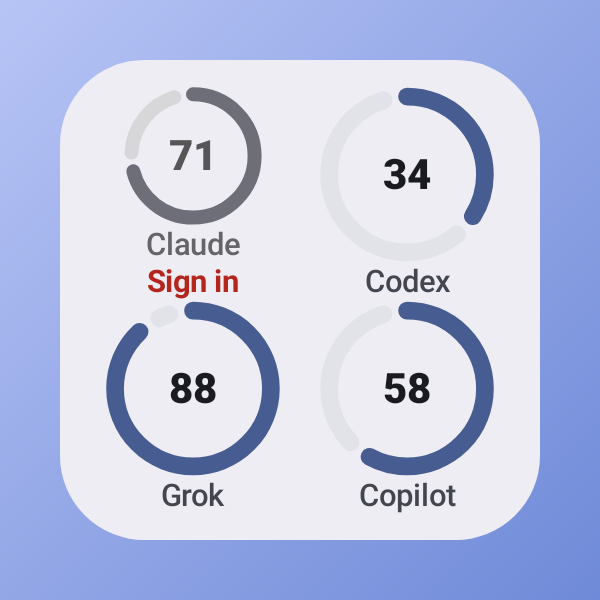
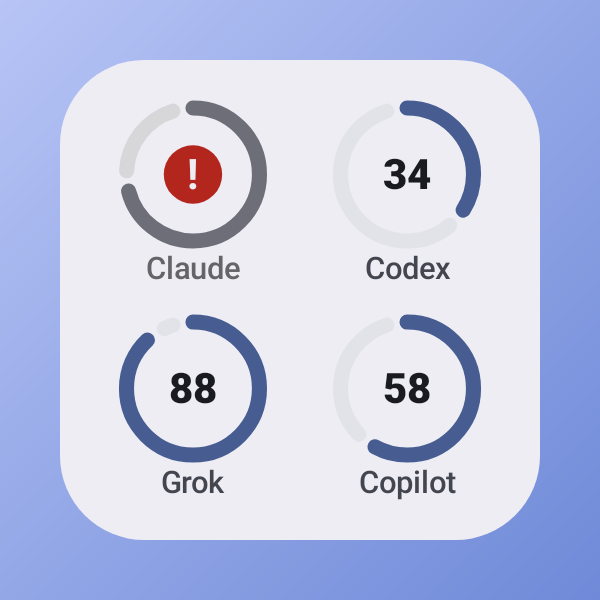
Keep only the account name under widget rings
The ring grid now leaves a small gap between its rows, inside each cell's
tap area. A ring whose sign-in expired no longer adds a "Sign in" line
under it: the ring grid and the lock screen show a red "!" badge in the
centre of the ring instead, in place of the number or the logo, and the
line under the ring is the account name again. Screen readers still hear
that the sign-in expired. The ring grid and lock screen pictures are
recorded again.

Changed region(s): [[0.15, 0.15, 0.48, 0.84], [0.6, 0.42, 0.84, 0.87], [0.66, 0.15, 0.84, 0.39]]

diff --git a/widget/src/main/kotlin/dev/sebastiano/headroom/widget/render/Drawing.kt b/widget/src/main/kotlin/dev/sebastiano/headroom/widget/render/Drawing.kt
@@ -62,11 +62,11 @@ internal fun RemoteDrawScope.drawGaugeRing(
 }
 
 /**
- * The reset counter: [count] in a small disc, ringed by the card colour so it stands apart from
- * what it sits on. It is centred on ([x], [y]).
+ * A small badge: [text] in a disc, ringed by the card colour so it stands apart from what it sits
+ * on. It is centred on ([x], [y]). The reset counter and the "!" of a stale ring use it.
  */
 internal fun RemoteDrawScope.drawCounter(
-    count: Int,
+    text: String,
     x: RemoteFloat,
     y: RemoteFloat,
     style: CounterStyle,
@@ -75,12 +75,12 @@ internal fun RemoteDrawScope.drawCounter(
     drawCircle(fillPaint(style.halo.rc), (style.radiusPx + style.haloPx).rf, centre)
     drawCircle(fillPaint(style.fill.rc), style.radiusPx.rf, centre)
     with(RestrictedRemoteApis) {
-        drawCentredText(count.toString().rs, x, y, textPaint(style.text, style.textPx, bold = true))
+        drawCentredText(text.rs, x, y, textPaint(style.text, style.textPx, bold = true))
     }
 }
 
 /**
- * Colours and sizes of a [drawCounter] counter. The sizes are pixels, fixed at capture, because
+ * Colours and sizes of a [drawCounter] badge. The sizes are pixels, fixed at capture, because
  * canvas text needs its size then.
  */
 internal data class CounterStyle(
@@ -91,6 +91,11 @@ internal data class CounterStyle(
     val textPx: Float,
     val haloPx: Float,
 )
+
+/** Draws the "!" badge of a ring whose sign-in expired, in the centre of the ring. */
+internal fun RemoteDrawScope.drawSignInBadge(style: CounterStyle) {
+    drawCounter(SIGN_IN_MARK, width / 2f.rf, height / 2f.rf, style)
+}
 
 /**
  * Draws the reset counter off the bottom-right of a ring of [geometry], just past its outer edge,
@@ -104,7 +109,7 @@ internal fun RemoteDrawScope.drawRingCounter(
     val outerEdge = remoteMin(width, height) * (geometry.radius + geometry.stroke / 2f).rf
     val distance = outerEdge + (style.radiusPx + style.haloPx).rf
     val offset = distance * DIAGONAL.rf
-    drawCounter(count, width / 2f.rf + offset, height / 2f.rf + offset, style)
+    drawCounter(count.toString(), width / 2f.rf + offset, height / 2f.rf + offset, style)
 }
 
 /**
@@ -257,6 +262,7 @@ private fun fillPaint(color: RemoteColor) = RemotePaint {
 }
 
 private const val FULL_TURN = 360f
+private const val SIGN_IN_MARK = "!"
 /** cos 45°: how far along each axis the bottom-right diagonal crosses a circle, per radius. */
 private const val DIAGONAL = 0.7071f
 private const val TOP = -90f

diff --git a/widget/src/main/kotlin/dev/sebastiano/headroom/widget/render/RingWidgets.kt b/widget/src/main/kotlin/dev/sebastiano/headroom/widget/render/RingWidgets.kt
@@ -243,8 +243,11 @@ private fun SmallRing(
     val colors = render.colorsFor(gauge)
     val counter =
         render.counterStyle(gauge, render.pxValue(SMALL_COUNTER), render.textPx(SMALL_COUNTER_TEXT))
+    val signIn =
+        render.signInBadgeStyle(render.pxValue(SIGN_IN_BADGE), render.textPx(SIGN_IN_BADGE_TEXT))
+    // Inside the cell's tap area, so the gap between rows still opens the account.
     RemoteColumn(
-        modifier = modifier,
+        modifier = modifier.padding(vertical = render.px(SMALL_CELL_GAP / 2f)),
         verticalArrangement = RemoteArrangement.Center,
         horizontalAlignment = RemoteAlignment.CenterHorizontally,
     ) {
@@ -262,13 +265,18 @@ private fun SmallRing(
                 if (gauge.resetsAvailable > 0) {
                     drawRingCounter(gauge.resetsAvailable, SmallRing, counter)
                 }
+                if (gauge.stale) drawSignInBadge(signIn)
             }
-            WidgetText(
-                text = gauge.shownPercent.toString(),
-                color = colors.onSurface,
-                fontSize = render.sp(SMALL_NUMBER),
-                fontWeight = FontWeight.ExtraBold,
-            )
+            // A stale ring shows a "!" badge where its number would be: only the name goes under
+            // a ring. Its faded arc still shows the last usage.
+            if (!gauge.stale) {
+                WidgetText(
+                    text = gauge.shownPercent.toString(),
+                    color = colors.onSurface,
+                    fontSize = render.sp(SMALL_NUMBER),
+                    fontWeight = FontWeight.ExtraBold,
+                )
+            }
         }
         WidgetText(
             gauge.name,
@@ -276,7 +284,6 @@ private fun SmallRing(
             render.sp(SMALL_NAME),
             fontWeight = FontWeight.SemiBold,
         )
-        if (gauge.stale) SignInLabel(render, render.sp(SMALL_NAME))
     }
 }
 
@@ -301,4 +308,8 @@ private const val LABEL_LINE = 1.4f
 private const val HERO_COUNTER = 10f
 private const val HERO_COUNTER_TEXT = 12f
 private const val SMALL_COUNTER = 7f
+internal const val SIGN_IN_BADGE = 9f
+internal const val SIGN_IN_BADGE_TEXT = 13f
+/** Space between the rows of the ring grid. */
+private const val SMALL_CELL_GAP = 8f
 private const val SMALL_COUNTER_TEXT = 9f

diff --git a/widget/src/test/kotlin/dev/sebastiano/headroom/widget/render/WidgetRendererTest.kt b/widget/src/test/kotlin/dev/sebastiano/headroom/widget/render/WidgetRendererTest.kt
@@ -342,7 +342,7 @@ class WidgetRendererTest {
     }
 
     @Test
-    fun `an expired account says Sign in in every layout, and its tap signs it in again`() =
+    fun `an expired account asks to sign in in every layout, and its tap signs it in again`() =
         runTest {
             val expired = DemoData.accountsWithExpiredSignIn(now)
             val claudeOnly = listOf("demo-claude")
@@ -368,11 +368,31 @@ class WidgetRendererTest {
                 val state = WidgetUiState.from(expired, config, now, size, host)
                 val doc = WidgetRenderer.capture(context, state, APP_WIDGET_ID, size, strings)
                 val label = "$config $size $host"
-                assertContains(doc.text(), "Sign in", message = label)
+                // Rings show a "!" badge instead of a "Sign in" label.
+                assertTrue(doc.text().contains("Sign in") || doc.drawsText("!"), label)
                 assertContains(doc.text(), "Sign-in expired", message = label)
                 assertTrue(Tap.SignIn("demo-claude") in doc.taps(), label)
                 assertFalse(Tap.Open("demo-claude") in doc.taps(), label)
             }
+        }
+
+    @Test
+    fun `an expired account's small ring shows a centred badge, and only its name below`() =
+        runTest {
+            val expired = DemoData.accountsWithExpiredSignIn(now)
+            listOf(
+                    WidgetConfig(WidgetStyle.Rings) to (WidgetSize(160f, 160f) to HOME),
+                    WidgetConfig(WidgetStyle.Rings) to (WidgetSize(300f, 120f) to LOCK),
+                )
+                .forEach { (config, sizeAndHost) ->
+                    val (size, host) = sizeAndHost
+                    val state = WidgetUiState.from(expired, config, now, size, host)
+                    val doc = WidgetRenderer.capture(context, state, APP_WIDGET_ID, size, strings)
+                    assertTrue(doc.drawsText("!"), "No sign-in badge in $config $host")
+                    assertFalse(doc.drawsText("Sign in"), "A Sign in line in $config $host")
+                    assertTrue(doc.drawsText("Claude"), "No name under the ring in $config $host")
+                    WidgetRenderer.remoteViews(doc).playAt(size)
+                }
         }
 
     @Test

diff --git a/widget/src/main/kotlin/dev/sebastiano/headroom/widget/render/CountdownWidgets.kt b/widget/src/main/kotlin/dev/sebastiano/headroom/widget/render/CountdownWidgets.kt
@@ -157,6 +157,8 @@ private fun LockScreenGauge(
     val colors = render.colorsFor(gauge)
     val counter =
         render.counterStyle(gauge, render.pxValue(LOCK_COUNTER), render.textPx(LOCK_COUNTER_TEXT))
+    val signIn =
+        render.signInBadgeStyle(render.pxValue(SIGN_IN_BADGE), render.textPx(SIGN_IN_BADGE_TEXT))
     RemoteColumn(modifier = modifier, horizontalAlignment = RemoteAlignment.CenterHorizontally) {
         RemoteBox(
             modifier = RemoteModifier.width(render.px(LOCK_RING)).height(render.px(LOCK_RING)),
@@ -172,8 +174,12 @@ private fun LockScreenGauge(
                 if (gauge.resetsAvailable > 0) {
                     drawRingCounter(gauge.resetsAvailable, LockRing, counter)
                 }
+                if (gauge.stale) drawSignInBadge(signIn)
             }
-            ProviderLogoIcon(gauge.provider, render.pxValue(LOCK_LOGO), colors.onSurface)
+            // A stale ring shows a "!" badge in place of its logo: only the name goes under a ring.
+            if (!gauge.stale) {
+                ProviderLogoIcon(gauge.provider, render.pxValue(LOCK_LOGO), colors.onSurface)
+            }
         }
         WidgetText(
             text = render.strings.percent(gauge.shownPercent),
@@ -181,17 +187,12 @@ private fun LockScreenGauge(
             fontSize = render.sp(LOCK_NUMBER),
             fontWeight = FontWeight.ExtraBold,
         )
-        // The logo in the ring names a stale account, so its name line asks to sign in.
-        if (gauge.stale) {
-            SignInLabel(render, render.sp(LOCK_NAME))
-        } else {
-            WidgetText(
-                gauge.name,
-                colors.onSurfaceVariant,
-                render.sp(LOCK_NAME),
-                fontWeight = FontWeight.Medium,
-            )
-        }
+        WidgetText(
+            gauge.name,
+            colors.onSurfaceVariant,
+            render.sp(LOCK_NAME),
+            fontWeight = FontWeight.Medium,
+        )
     }
 }
 

diff --git a/widget/src/main/kotlin/dev/sebastiano/headroom/widget/render/RenderContext.kt b/widget/src/main/kotlin/dev/sebastiano/headroom/widget/render/RenderContext.kt
@@ -47,6 +47,20 @@ internal class RenderContext(
             haloPx = radiusPx * COUNTER_HALO_SHARE,
         )
 
+    /**
+     * The "!" badge in the centre of a ring whose sign-in expired, [radiusPx] wide, with [textPx]
+     * text.
+     */
+    fun signInBadgeStyle(radiusPx: Float, textPx: Float): CounterStyle =
+        CounterStyle(
+            fill = colors.signIn,
+            text = colors.background,
+            halo = colors.background,
+            radiusPx = radiusPx,
+            textPx = textPx,
+            haloPx = 0f,
+        )
+
     /** Text size for a design size, scaled with the widget. */
     fun sp(design: Float): RemoteTextUnit = (design * unit).sp.asRemoteTextUnit()
 

diff --git a/widget/src/main/kotlin/dev/sebastiano/headroom/widget/render/WidgetFrame.kt b/widget/src/main/kotlin/dev/sebastiano/headroom/widget/render/WidgetFrame.kt
@@ -112,7 +112,7 @@ internal fun ProviderAvatar(
             // Drawn after the logo, so the counter sits on top of it.
             RemoteCanvas(RemoteModifier.fillMaxSize()) {
                 val inset = (counter.radiusPx + counter.haloPx).rf
-                drawCounter(resets, width - inset, height - inset, counter)
+                drawCounter(resets.toString(), width - inset, height - inset, counter)
             }
         }
     }
